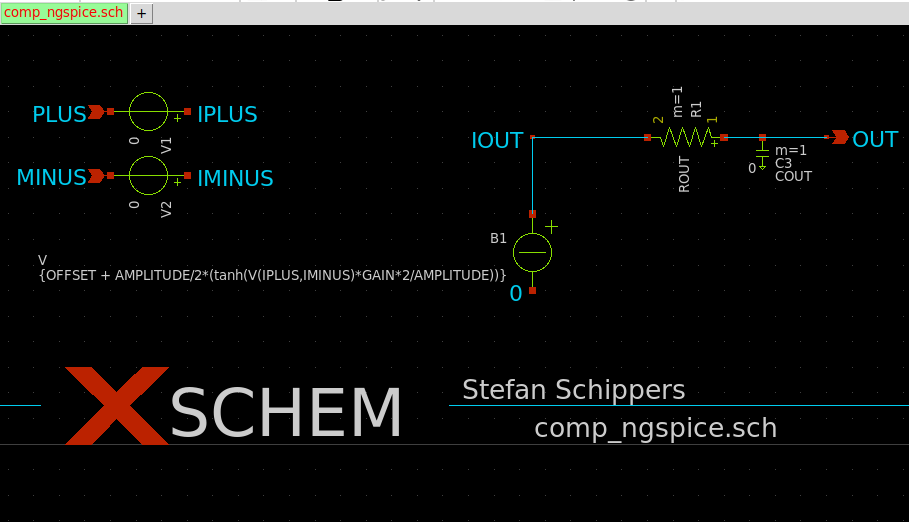
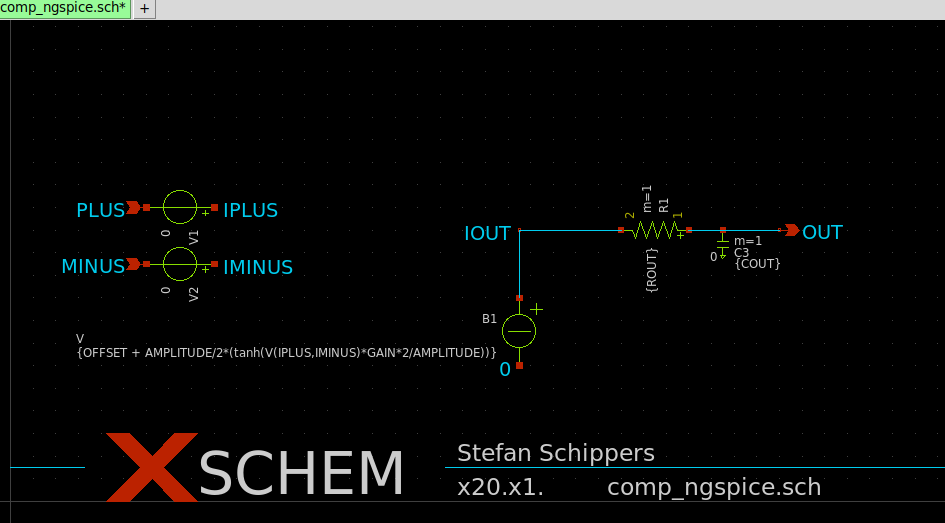
update docs about parametrized subcircuits, add braces around parameters (some ngspice version require them, some other can live without for simple non expression params), Update text example comp_ngspice.sch

diff --git a/doc/xschem_man/subckt_with_parameters.html b/doc/xschem_man/subckt_with_parameters.html
@@ -31,6 +31,9 @@ p{padding: 15px  30px 10px;}
   <li>ROUT: the output resistance.</li>
   <li>COUT: the output capacitance. Together with ROUT defines a RC time constant (dominant pole).</li>
  </ul>
+ <p> Parameters and expressions should be enclosed in curly braces or single quotes:<br>
+     <kbd>value={ROUT}</kbd> or <kbd>value='ROUT'</kbd>
+ </p>
  <p>
   The image below shows the circuit. A 'B' voltage-type source with an hyperbolic tangent
   function is used because it has continuous derivative and a realistic shape.
@@ -107,8 +110,8 @@ x1 REFD DRIVED IN comp_ngspice OFFSET=5 AMPLITUDE=10 GAIN=100 ROUT=1000 COUT=1p
 *.ipin MINUS
 *.opin OUT
 B1 IOUT 0 V = {OFFSET + AMPLITUDE/2*(tanh(V(IPLUS,IMINUS)*GAIN*2/AMPLITUDE))}
-R1 OUT IOUT ROUT m=1
-C3 OUT 0 COUT m=1
+R1 OUT IOUT {ROUT} m=1
+C3 OUT 0 {COUT} m=1
 V1 IPLUS PLUS 0
 .save i(v1)
 V2 IMINUS MINUS 0
